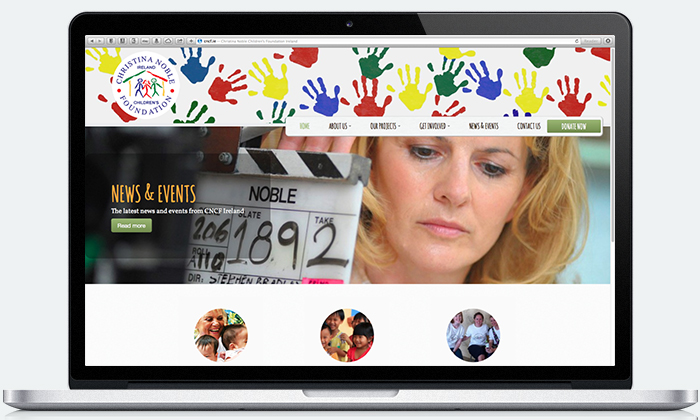
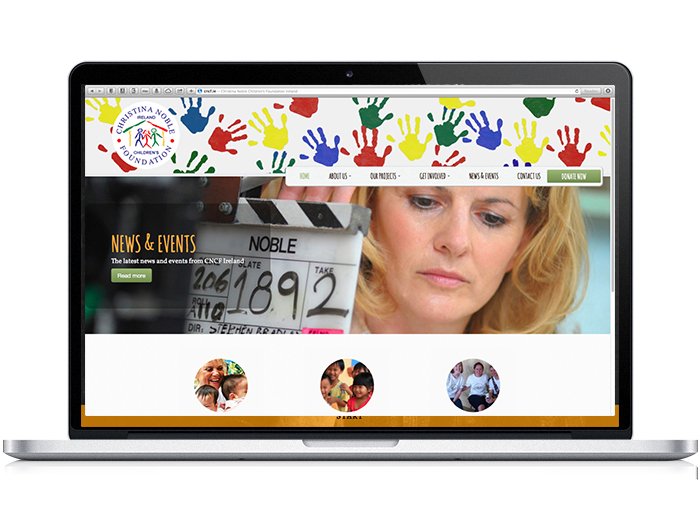
backgrounds

diff --git a/css/styles.css b/css/styles.css
@@ -1116,6 +1116,46 @@ i.icon-antenna{
   text-align: center
  }
 
+
+
+.anime {
+  width: 200px;
+  height: 200px;
+  background-color: coral;
+  animation: square-to-circle 2s .5s infinite cubic-bezier(1,.015,.295,1.225) alternate;
+}
+ 
+@keyframes square-to-circle {
+  0%  {
+    border-radius:0 0 0 0;
+    background:coral;
+    transform:rotate(0deg);
+  }
+  25%  {
+    border-radius:50% 0 0 0;
+    background:darksalmon;
+    transform:rotate(45deg);
+  }
+  50%  {
+    border-radius:50% 50% 0 0;
+    background:indianred;
+    transform:rotate(90deg);
+  }
+  75%  { 
+    border-radius:50% 50% 50% 0;
+    background:lightcoral;
+    transform:rotate(135deg);
+  }
+  100% {  
+    border-radius:50%;
+    background:darksalmon;
+    transform:rotate(180deg);
+  }
+}
+
+
+
+
 @media screen and (max-height: 30.5em) {
   .overlay nav {
     height: 70%;

diff --git a/index.html b/index.html
@@ -27,7 +27,7 @@
       </div>
       
      <img src="images/icon_072.png" class="Gl">
-     <!--<h1 class="Gl">gL</h1>-->
+    
   </div>
   
 
@@ -64,6 +64,8 @@
                 <p>Lorem ipsum dolor sit amet, consectetur adipisicing elit. Sit modi, aliquam nemo voluptatem fuga doloremque sapiente veniam dolores explicabo.<p>
                 <a href="" class="btn homebtn btn-lg btn-warning text-center">LAUNCH WEB APP</a>
                 </div>
+
+
             
         </div>
     </div>
@@ -289,7 +291,9 @@
             </p>
           
         </div>
-
+      <div class="slide">
+        <div class="anime"></div>
+      </div>
 
       </div>
 

diff --git a/js/main.js b/js/main.js
@@ -2,7 +2,7 @@
   $(function() {
     $("#fullpage").fullpage({
       anchors: ["firstPage", "secondPage", "thirdPage", "fourthPage", "fifthPage", "sixthPage","seventhPage","eigthPage","ninthPage", "tenthPage"],
-      slidesColor: ["#eef2f2", "#ebebeb", "#eef2f2","#ebebeb", "#eef2f2","#ebebeb", "#eef2f2","#ebebeb","#eef2f2","#ebebeb"],
+      slidesColor: ["#fff", "#ebebeb", "#fff","#ebebeb", "#fff","#ebebeb", "#fff","#ebebeb","#fff","#ebebeb"],
       navigation: true,
         navigationPosition: 'right',
         navigationTooltips: false,
